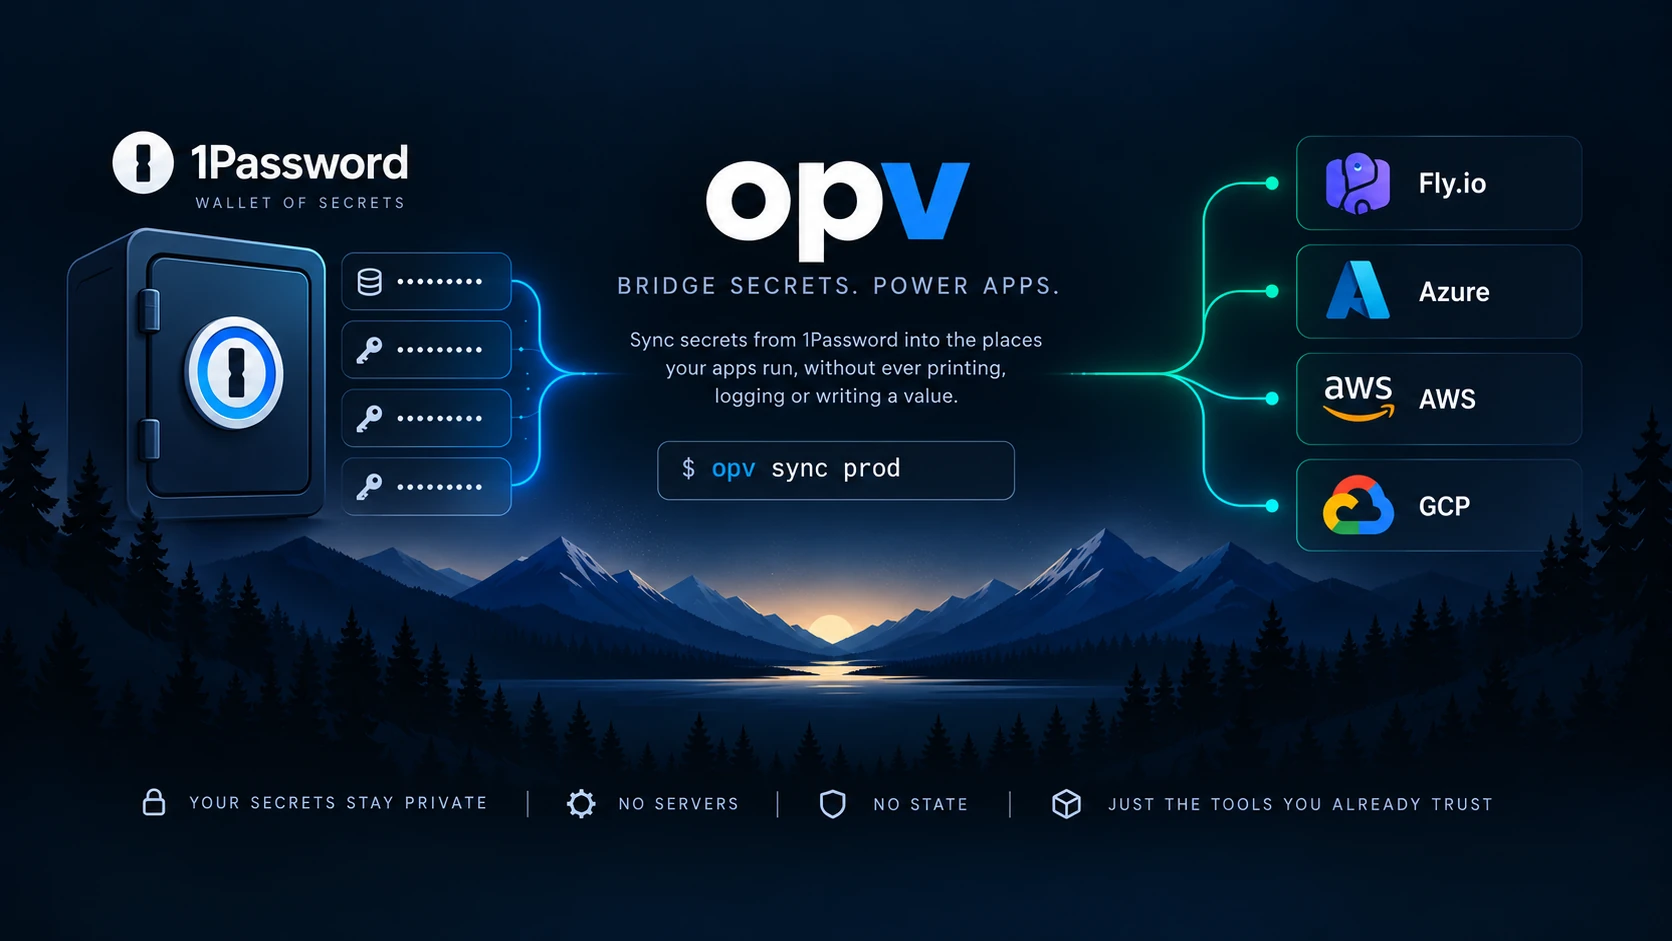
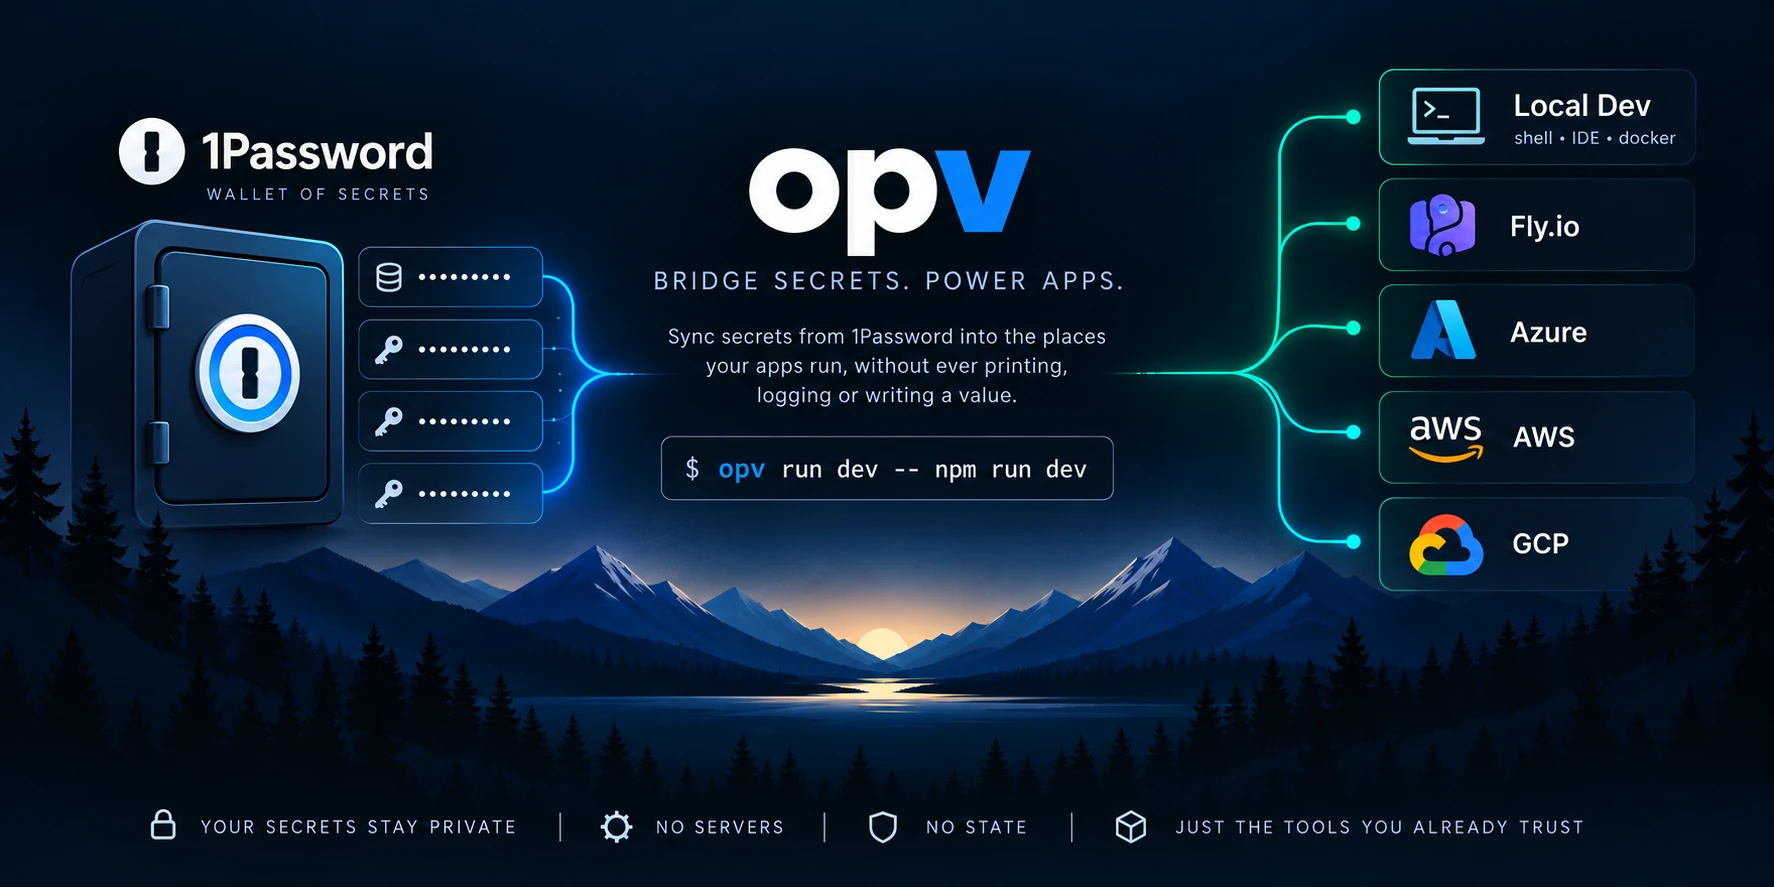
docs: new README header image with local development
WebP at quality 90 (124 KB, from a 1.66 MB PNG); replaces the previous header.

diff --git a/README.md b/README.md
@@ -1,5 +1,5 @@
 <p align="center">
-  <img src="docs/assets/opv-header.webp" alt="opv bridges secrets from a 1Password vault to Fly.io, Azure, AWS and GCP with one command: opv sync prod" width="100%">
+  <img src="docs/assets/opv-header.webp" alt="opv bridges secrets from a 1Password vault to local development (shell, IDE, Docker), Fly.io, Azure, AWS and GCP: opv run dev -- npm run dev" width="100%">
 </p>
 
 # opv
